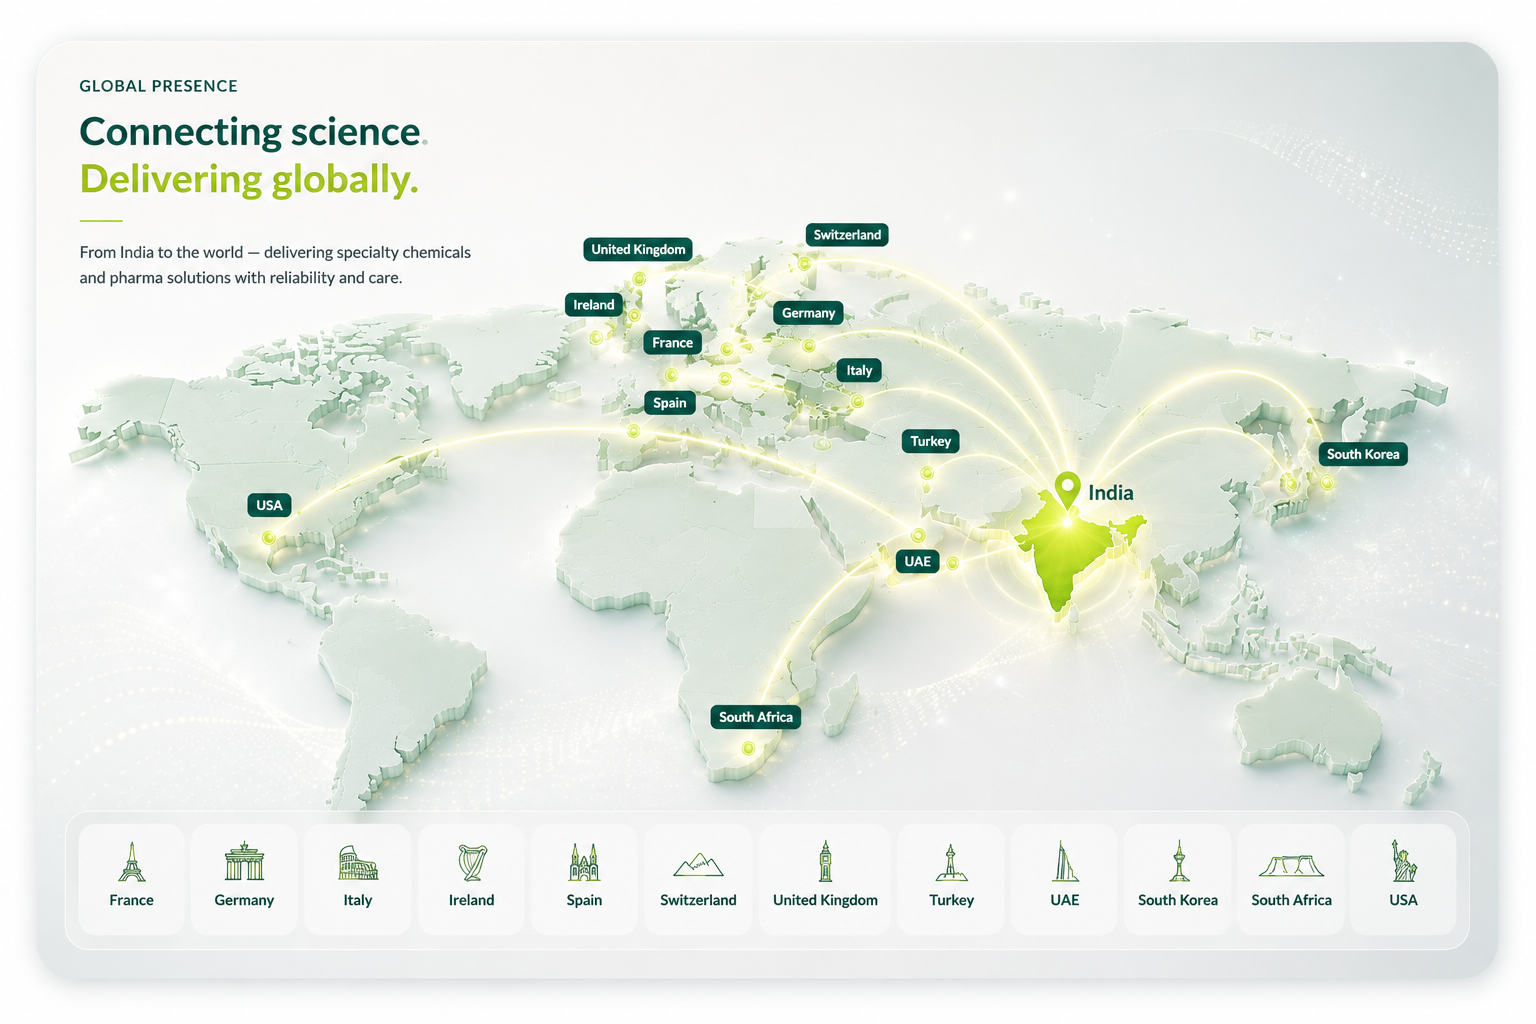
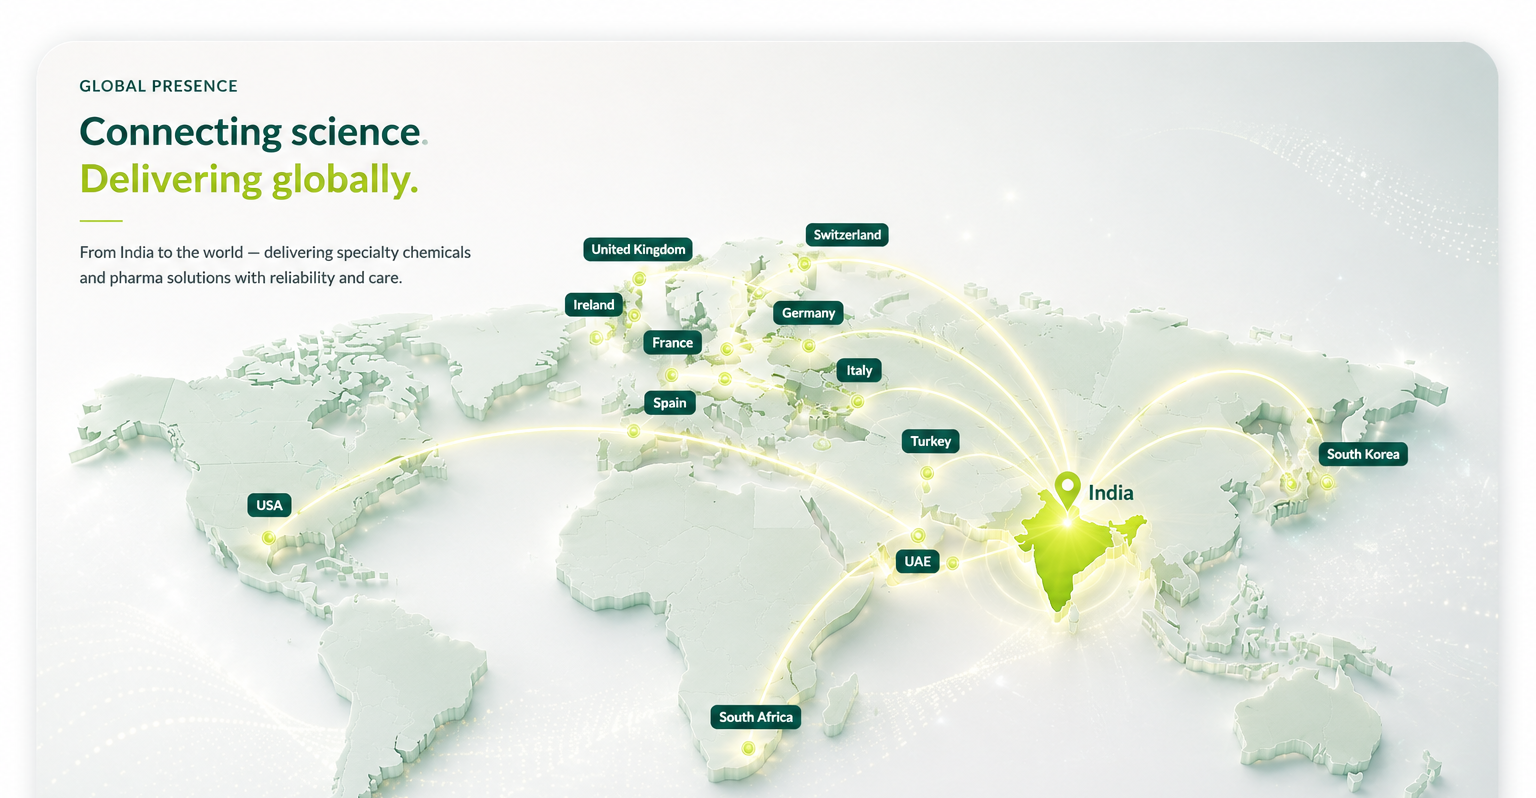
Remove country landmark strip from homepage map
The France…USA landmark strip was baked into the bottom of global-map-v2.png.
Cropped it off (1536×1024 → 1536×798) and rescaled the node/glow/ping
overlays' vertical percentages to the new height so they stay aligned over
the map.

diff --git a/src/components/home/GlobalMap.tsx b/src/components/home/GlobalMap.tsx
@@ -1,23 +1,25 @@
 import Image from "next/image";
 
-/** Trade-route nodes, positioned as percentages over the map artwork. */
+/** Trade-route nodes, positioned as percentages over the map artwork.
+   `top` values are scaled to the strip-cropped artwork (1536×798); `left`
+   is unchanged since the width is the same. */
 const NODES = [
-  { left: "17%", top: "50%", delay: "0.2s" },
-  { left: "42.5%", top: "27%", delay: "0.6s" },
-  { left: "52.5%", top: "32%", delay: "1s" },
-  { left: "56%", top: "37.5%", delay: "1.4s" },
-  { left: "60%", top: "44%", delay: "1.8s" },
-  { left: "60%", top: "56%", delay: "2.2s" },
-  { left: "49%", top: "74%", delay: "2.6s" },
-  { left: "85%", top: "46%", delay: "3s" },
+  { left: "17%", top: "64.2%", delay: "0.2s" },
+  { left: "42.5%", top: "34.6%", delay: "0.6s" },
+  { left: "52.5%", top: "41.1%", delay: "1s" },
+  { left: "56%", top: "48.1%", delay: "1.4s" },
+  { left: "60%", top: "56.5%", delay: "1.8s" },
+  { left: "60%", top: "71.9%", delay: "2.2s" },
+  { left: "49%", top: "95%", delay: "2.6s" },
+  { left: "85%", top: "59%", delay: "3s" },
 ];
 
 const pingStyle: React.CSSProperties = {
   position: "absolute",
   left: "69%",
-  top: "55%",
+  top: "70.6%",
   width: "34%",
-  height: "48%",
+  height: "61.6%",
   borderRadius: "50%",
   border: "2px solid rgba(163,230,53,0.55)",
   mixBlendMode: "screen",
@@ -49,7 +51,7 @@ export default function GlobalMap() {
             src="/assets/global-map-v2.png"
             alt="ASTA global presence — connecting science from India to markets worldwide"
             width={1536}
-            height={1024}
+            height={798}
             sizes="(max-width: 1320px) 100vw, 1320px"
             style={{ display: "block", width: "100%", height: "auto" }}
           />
@@ -76,9 +78,9 @@ export default function GlobalMap() {
             style={{
               position: "absolute",
               left: "69%",
-              top: "55%",
+              top: "70.6%",
               width: "26%",
-              height: "38%",
+              height: "48.8%",
               borderRadius: "50%",
               background:
                 "radial-gradient(circle,rgba(190,242,100,0.85) 0%,rgba(163,230,53,0.35) 40%,rgba(163,230,53,0) 70%)",